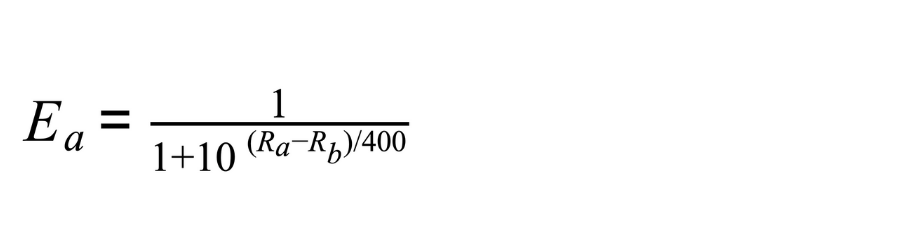
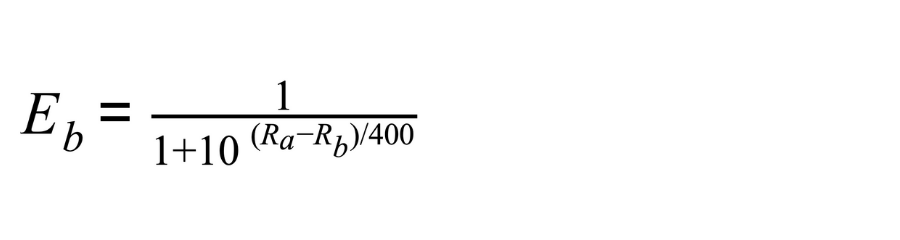
Changed Photos

Changed region(s): [[0.0, 0.35, 0.4667, 0.7292]]

diff --git a/README.md b/README.md
@@ -2,7 +2,7 @@
 
 ## ⏳ Elo Rating Algorithm History
 
-The Elo Rating algorithm, created by Arpad Elo, is one of the most common algoritms used for rating because of the logic & functionality behind it.
+The Elo Rating algorithm, created by Arpad Elo _(a Hungarian-Amerian Physics Professor)_, is one of the most common algoritms used for rating because of the logic & functionality behind it.
 
 It is used by developers that want to rank chess players to college students wanting to rank girls _(Mark Zucherberg's Face Smash)._
 
@@ -80,11 +80,17 @@ So in the curve, the area to the right of 0 would be 10 times the area of the cu
 
 **_If you turn that into a formula, this is the formula that you would get:_**
 
+So, If Player A has a rating of _R<sub>a</sub>_, and Player B has a rating of _R<sub>b</sub>_, the exact formula for the expected score of Player A is:
+
 <img src="formulas/formula2.png">
+
+You can simmilarly look at the probability for Player B to win by:
+
+<img src="formulas/formula3.png">
 
 With this, you can predict who will win the game.
 
-**EXAMPLE:** _If the probability of winning is 1, your definitly going to win the game. If the probability of winning is 0, your definitly going to win the game._
+**EXAMPLE:** _If the probability of winning is 1, your going to win the game. If the probability of winning is 0, your going to win the game._
 
 **IMPORTANT:** probability of winning is 0.5 (half), then your going to win as many games as you loose. Basically a draw.
 
@@ -98,8 +104,20 @@ Now, lets say that:
 
 > It can be wierd like if you have a probability of **0.75**.
 
-> _This means that you could win 75% of the games._
+> _This means that you could win 75% of the games and loose the other 25%._
 
 > _But it also means that you coud win 50% of the games and draw the other 50% of the games._
 
 > **Either way, we would say the expected score is 0.75**
+
+**Whenever a player does better than expected, their rating will increse. The more surprising that the win is, the more points they will get. Up to a max of 32 points.**
+
+_Nothing special about 32, just a choice that they made._
+
+**The same way, if a player does worse than expected, their rating will decrease up to 32 poibts.**
+
+---
+
+## 🛥 Formula 2 (The Update Formula)
+
+Throughout a tournament, a players raiting **is updated using an update formula.**
